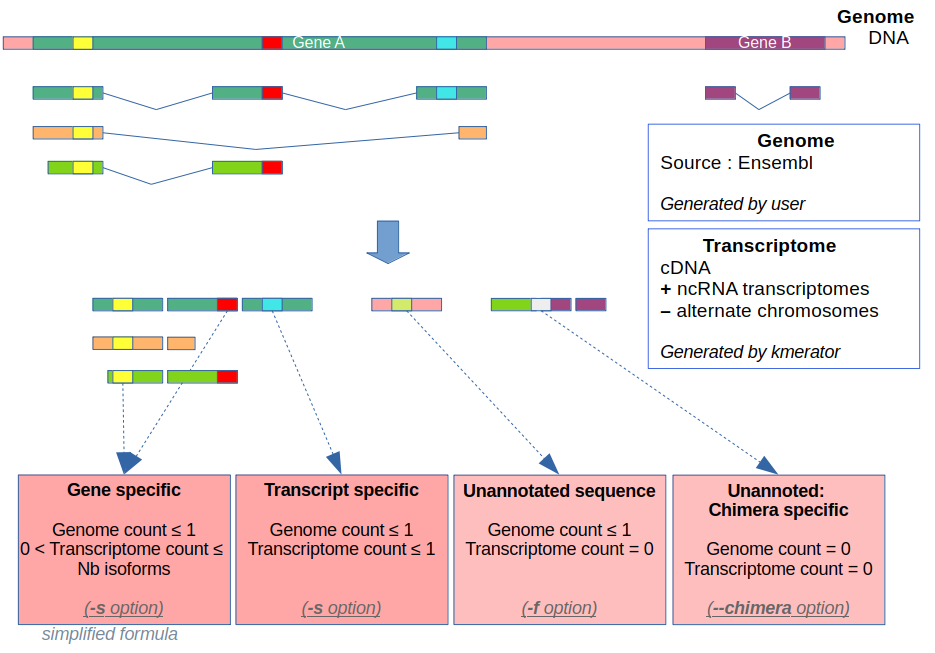
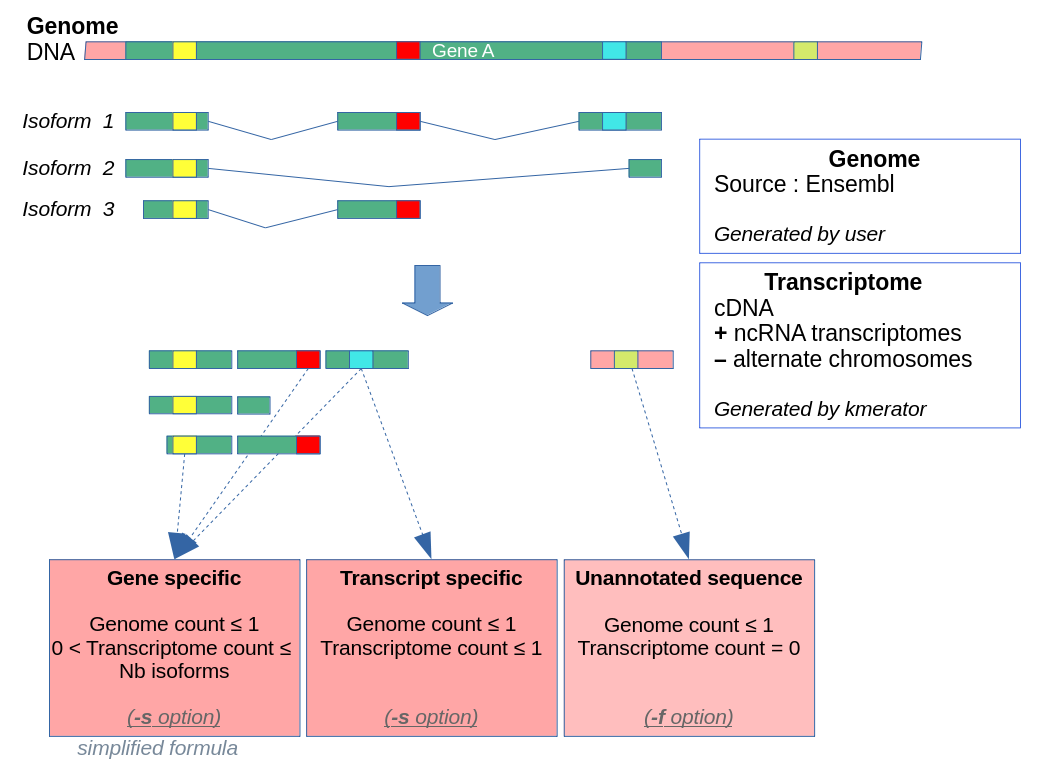
add --max-on-transcriptome/genome and remove --chimera

diff --git a/kmerator/kmerize.py b/kmerator/kmerize.py
@@ -157,7 +157,7 @@ class SpecificKmers:
             'contig_pos': 0,                   # position of retained contig
         }
         '''
-        level = 'gene' if item['type'] not in ['transcript', 'chimera'] else item['type']
+        level = 'gene' if item['type'] != 'transcript' else item['type']
         specific_kmers = []              # specific kmers list
         lost_kmers = []                  # lost kmers list
         specific_contigs = []            # specific contigs list
@@ -179,10 +179,10 @@ class SpecificKmers:
             ## When '--selection' option is set
             kmer_outfile = f"{given_up}-{ENST}-{level}-specific_kmers.fa"
             contig_outfile = f"{given_up}-{ENST}-{level}-specific_contigs.fa"
-        elif args['chimera']:
-            ## When '--chimera' option is set
-            kmer_outfile = f"{flat_name}-chimera-specific_kmers.fa"
-            contig_outfile = f"{flat_name}-chimera-specific_contigs.fa"
+        # ~ elif args['chimera']:
+            # ~ ## When '--chimera' option is set
+            # ~ kmer_outfile = f"{flat_name}-chimera-specific_kmers.fa"
+            # ~ contig_outfile = f"{flat_name}-chimera-specific_contigs.fa"
         elif args['fasta_file']:
             ## When '--fasta-file' option is set
             kmer_outfile = f"{flat_name}-transcript-specific_kmers.fa"
@@ -213,13 +213,6 @@ class SpecificKmers:
                     # knb, specific_kmers, given_up, transcript, kmer_pos, isoforms_with_mer_nb,
                     # isoforms_nb, mer, contig, kmer_pos_prev, kmer_pos, contig_pos
 
-                    '''
-                    TODO
-                    the algo to find specific kmers, because there are repeated 5 times, but not so easy
-                        - many arguments to pass to the method are numerous
-                        - string to pass are not already the same
-                        - WARNING of performances losses
-                    '''
                     ### all kmers found (abund_in_tr) must be in isoforms
                     if not args['stringent'] and abund_in_tr and abund_in_tr == isoforms_with_mer_nb:
                         ## contigs case
@@ -264,7 +257,7 @@ class SpecificKmers:
                 # ~ else:
                     # ~ lost_kmers.append(f">{given_up}:{ENST}.kmer{kmer_pos} ct:{c_nb} tr:{isoforms_with_mer_nb}/{isoforms_nb}\n{mer}")
 
-            ### Cases of transcripts 1) unannotated, 2) annotated.
+            ### Cases of transcripts 1) annotated, 2) unannotated.
             elif level == 'transcript':
                 ### Case of annotated transcripts
                 if args['selection'] and abund_in_tr == 1 and abund_in_ge <= 1:
@@ -287,7 +280,7 @@ class SpecificKmers:
                     specific_kmers.append(f">{given_up}:{ENST}.kmer{kmer_pos} ct:{c_nb}\n{mer}")
 
                 ### Case of unannotated transcripts
-                elif args['fasta_file'] and abund_in_tr <= self.args['max_on_transcriptome'] and abund_in_ge <= 1:     # max_on_transcriptome = 0 by default
+                elif args['fasta_file'] and abund_in_tr <= self.args['max_on_transcriptome'] and abund_in_ge <= self.args['max_on_genome']:     # max_on_transcriptome = 0 by default
                     ### contigs case
                     if knb == 0:                                    # first kmer in contig
                         contig = mer
@@ -306,27 +299,27 @@ class SpecificKmers:
                     knb += 1
                     specific_kmers.append(f">{f_id}.kmer{kmer_pos} ct:{c_nb}\n{mer}")
 
-            ### Case of chimera
-            elif level == 'chimera':
-                if abund_in_tr == abund_in_ge == 0:
-                    ### contig case
-                    if knb == 0:
-                        contig = mer
-                        kmer_pos_prev = kmer_pos
-                        contig_pos = kmer_pos
-                    elif knb>0 and kmer_pos == kmer_pos_prev+1:
-                        contig += mer[-1]
-                        kmer_pos_prev = kmer_pos
-                    else:
-                        specific_contigs.append(f">{f_id}.contig_{c_nb} (at position {contig_pos})\n{contig}")
-                        c_nb += 1
-                        contig = mer
-                        kmer_pos_prev = kmer_pos
-                        contig_pos = kmer_pos
-                    ### kmers case
-                    knb += 1
-                    specific_kmers.append(f">{f_id}.kmer{kmer_pos} ct:{c_nb}\n{mer}")
-            ### not a gene, transcript, or chimera
+            # ~ ### Case of chimera
+            # ~ elif level == 'chimera':
+                # ~ if abund_in_tr == abund_in_ge == 0:
+                    # ~ ### contig case
+                    # ~ if knb == 0:
+                        # ~ contig = mer
+                        # ~ kmer_pos_prev = kmer_pos
+                        # ~ contig_pos = kmer_pos
+                    # ~ elif knb>0 and kmer_pos == kmer_pos_prev+1:
+                        # ~ contig += mer[-1]
+                        # ~ kmer_pos_prev = kmer_pos
+                    # ~ else:
+                        # ~ specific_contigs.append(f">{f_id}.contig_{c_nb} (at position {contig_pos})\n{contig}")
+                        # ~ c_nb += 1
+                        # ~ contig = mer
+                        # ~ kmer_pos_prev = kmer_pos
+                        # ~ contig_pos = kmer_pos
+                    # ~ ### kmers case
+                    # ~ knb += 1
+                    # ~ specific_kmers.append(f">{f_id}.kmer{kmer_pos} ct:{c_nb}\n{mer}")
+            ### not a gene or transcript
             else:
                 raise KeyError(f"{RED}Error: level {level!r} unknown.{ENDCOL}")
 

diff --git a/kmerator/options.py b/kmerator/options.py
@@ -93,23 +93,35 @@ def usage(conf):
                         help="release of transcriptome (default: last).",
                         default="last",
                         )
-    parser.add_argument('--chimera',
-                        action='store_true',
-                        help="Only with '--fasta-file' option.",
-                        )
+    # ~ parser.add_argument('--chimera',
+                        # ~ action='store_true',
+                        # ~ help="Only with '-f/--fasta-file' option.",
+                        # ~ )
     parser.add_argument('--stringent',
                         action='store_true',
                         help=(
-                            "Only for genes with '--selection' option: use this option if you want "
+                            "Only for genes with '-s/--selection' option: use this option if you want "
                             "to select gene-specific k-mers present in ALL transcripts for your "
                             "gene. If false, a k-mer is considered as gene-specific if present "
                             "in at least one isoform of your gene of interest."
                             ),
                         )
-    parser.add_argument('--max-on-transcriptome',
-                        type=float,
-                        help=argparse.SUPPRESS,
+    parser.add_argument('-T', '--max-on-transcriptome',
+                        type=int,
+                        help=("Only for genes with '-f/--fasta-file' option: with unanotated data, "
+                            "specific kmers are not supposed to be found in the transcriptome, you "
+                            "can change this behavior for special cases (default: 0)"
+                            ),
                         default=0,
+                        )
+    parser.add_argument('-G', '--max-on-genome',
+                        type=int,
+                        help=(
+                            "Only for genes with '-f/--fasta-file' option: typically, specific "
+                            "kmers are not supposed to be found more than once in the genome, you "
+                            "can change this behavior for special cases, like chimera (default: 1)"
+                            ),
+                        default=1 if any(set(['-f', '--fasta-file']) & set(sys.argv)) else None,
                         )
     parser.add_argument('-o', '--output',
                         help="output directory, created if not exists (default: 'output')",
@@ -269,8 +281,14 @@ def checkup_args(args):
                  f"{YELLOW}jellyfish count /genomes/GRCh38.fa -m 31 -s 100M -t 8 --canonical "
                  "-o GRCh38.jf")
     ### --chimera level works only with --fasta-file option
-    if args.chimera and not args.fasta_file:
-        sys.exit(f"{ERROR}Error: '--chimera' needs '-f/--fasta-file' option.{ENDCOL}")
+    # ~ if args.chimera and not args.fasta_file:
+        # ~ sys.exit(f"{ERROR}Error: '--chimera' needs '-f/--fasta-file' option.{ENDCOL}")
+    ### --max-on-genome level works only with --fasta-file option
+    if args.max_on_genome and not args.fasta_file:
+        sys.exit(f"{ERROR}Error: '--max-on-genome' needs '-f/--fasta-file' option.{ENDCOL}")
+    ### --max-on-transcriptome level works only with --fasta-file option
+    if args.max_on_transcriptome and not args.fasta_file:
+        sys.exit(f"{ERROR}Error: '--max-on-transcriptome' needs '-f/--fasta-file' option.{ENDCOL}")
     ### temporary directory
     if not args.keep:
         if not args.tmpdir:

diff --git a/kmerator/info.py b/kmerator/info.py
@@ -5,7 +5,7 @@ Genral informations on to the program.
 """
 
 APPNAME = "kmerator"
-VERSION = "1.0.3"
+VERSION = "2.0.0"
 VERSION_DATASET = 1
 SHORTDESC = "Find specific gene or transcript kmers. And more."
 LICENCE = "GPL3"
@@ -37,7 +37,7 @@ EXAMPLES:
 Before all, remember that kmerator needs a jellyfish index of the genome.
 
 Good idea before requests kmerator:
- kmerator -e             # Edit config file to set default options
+ kmerator -e                     # Edit config file to set default options
 
 Some requests:
  kmerator -s npm1 braf           # get specific kmers from NPM1 and BRAF genes

diff --git a/kmerator/kmerator.py b/kmerator/kmerator.py
@@ -154,7 +154,7 @@ def find_items(args, report, geneinfo_dict=None):
 
     ### With '--fasta-file' option
     if args.fasta_file:
-        type = 'chimera' if args.chimera else 'transcript'
+        type = 'transcript'
         with open(args.fasta_file) as fh:
             seq = ""
             f_id = fh.readline()[1:].split(' ')[0].rstrip()

diff --git a/README.md b/README.md
@@ -115,76 +115,76 @@ kmerator --info genes.txt             # genes/transcripts are in a file
 ## All arguments
 
 ```
-optional arguments:
+options:
   -h, --help            show this help message and exit
-  -s SELECTION [SELECTION ...], --selection SELECTION [SELECTION ...]
-                        list of gene IDs (ENSG, gene Symbol or alias) or
-                        transcript IDs (ENST) from which you want to extract
-                        specific kmers from. For genes, kmerator search
-                        specific kmers along the gene. For transcripts, it
-                        search specific kmers to the transcript. You can also
-                        give a file with yours genes/transcripts separated by
-                        space, tab or newline. If you want to use your own
-                        unannotated sequences, you must give your fasta file
-                        with --fasta-file option.
+  -s SELECTION [SELECTION ...], --selection SELECTION [SELECTION ...] 
+                        list of gene IDs (ENSG, gene Symbol or alias) or transcript 
+                        IDs (ENST) from which you want to extract specific kmers from. 
+                        For genes, kmerator search specific kmers along the gene. 
+                        For transcripts, it search specific kmers to the transcript. 
+                        You can also give a file with yours genes/transcripts 
+                        separated by space, tab or newline. If you want to use 
+                        your own unannotated sequences, you must give your fasta 
+                        file with --fasta-file option.
   -f FASTA_FILE, --fasta-file FASTA_FILE
-                        Use this option when yours sequences are unannonated
-                        or provided by a annotation file external from
-                        Ensembl. Otherwise, use --selection option.
+                        Use this option when yours sequences are unannonated or 
+                        provided by a annotation file external from Ensembl. 
+                        Otherwise, use --selection option.
   -d DATADIR, --datadir DATADIR
-                        Storage directory for kmerator datasets.We recommend
-                        to set this parameter by editing the configuration
-                        file (kmerator --edit)
+                        Storage directory for kmerator datasets.We recommend to 
+                        set this parameter by editing the configuration file 
+                        (kmerator --edit)
   -g GENOME, --genome GENOME
-                        Genome jellyfish index (.jf) to use for k-mers
-                        requests.
+                        Genome jellyfish index (.jf) to use for k-mers requests.
   -S SPECIE, --specie SPECIE
-                        indicate a specie referenced in Ensembl, to help,
-                        follow the link
-                        https://rest.ensembl.org/documentation/info/species.
-                        You can use the 'name', the 'display_name' or any
-                        'alias'. For example human or homo_sapiens are valid
-                        (default: human).
-  -k KMER_LENGTH, --kmer-length KMER_LENGTH
+                        indicate a specie referenced in Ensembl, to help, follow
+                        the link https://rest.ensembl.org/documentation/info/species.
+                        You can use the 'name', the 'display_name' or any 'alias'.
+                        For example human or homo_sapiens are valid
+                        (default:human).
+  -k KMER_LENGTH, --kmer-length KMER_LENGTH               
                         k-mer length that you want to use (default 31).
-  -r RELEASE, --release RELEASE
+  -r RELEASE, --release RELEASE         
                         release of transcriptome (default: last).
-  --chimera             Only with '--fasta-file' option.
-  --stringent           Only for genes with '--selection' option: use this
-                        option if you want to select gene-specific k-mers
-                        present in ALL transcripts for your gene. If false, a
-                        k-mer is considered as gene-specific if present in at
-                        least one isoform of your gene of interest.
-  -o OUTPUT, --output OUTPUT
-                        output directory, created if not exists (default:
-                        'output')
+  --stringent           Only for genes with '-s/--selection' option: use this
+                        option if you want to select gene-specific k-mers present
+                        in ALL transcripts for your gene. If false, a k-mer is 
+                        considered as gene-specific if present in at least one
+                        isoform of your gene of interest.
+  -T MAX_ON_TRANSCRIPTOME, --max-on-transcriptome MAX_ON_TRANSCRIPTOME
+                        Only for genes with '-f/--fasta-file' option: with
+                        unanotated data, specific kmers are not supposed to be
+                        found in the transcriptome, you can change this behavior
+                        for special cases (default: 0)
+  -G MAX_ON_GENOME, --max-on-genome MAX_ON_GENOME        
+                        Only for genes with '-f/--fasta-file' option: typically, 
+                        specific kmers are not supposed to be found more than 
+                        once in the genome, you can change
+                        this behavior for special cases, like chimera (default: 1)
+  -o OUTPUT, --output OUTPUT 
+                        output directory, created if not exists (default: 'output')
   -t THREAD, --thread THREAD
-                        run n process simultaneously (default: 1)
-  --tmpdir TMPDIR       directory to temporary file (default:
-                        /tmp/kmerator_<random>)
+                        run n process simultaneously (default: 1) 
+  --tmpdir TMPDIR       directory to temporary file (default: /tmp/kmerator_<random>) 
   -D, --debug           Show more details while Kmerator is running.
-  --keep                keep intermediate files (sequences, indexes, separate
+  --keep                keep intermediate files (sequences, indexes, separate 
                         kmers and contigs files).
-  -y, --yes             assumes 'yes' as the prompt answer, run non-
-                        interactively.
-  -e, --edit-config     Edit config file
-  -l, --list-dataset, --list-datasets
+  -y, --yes             assumes 'yes' as the prompt answer, run non-interactively.
+  -e, --edit-config     Edit config file 
+  -l, --list-dataset, --list-datasets 
                         list the local datasets (based on the datadir option).
-  --rm-dataset          remove a dataset, according with --specie and
+  --rm-dataset          remove a dataset, according with --specie and 
                         --release options
-  --mk-dataset          make a dataset, according with --specie and --release
-                        options
-  --last-avail, --last-available
+  --mk-dataset          make a dataset, according with --specie and --release options
+  --last-avail, --last-available    
                         last release available on Ensembl
-  -u, --update-dataset  builds a new dataset if a new version is found on
-                        Ensembl
-  --info gene [gene ...]
-                        get some information about gene. Multiple entries are
+  -u, --update-dataset  builds a new dataset if a new version is found on Ensembl
+  --info gene [gene ...] 
+                        get some information about gene. Multiple entries are 
                         allowed or a text file with list of genes
-  -a, --all             only with '--info' option. Give more info, like
-                        transcript sequences
+  -a, --all             only with '--info' option. Give more info, like 
+                        transcript sequences                       
   -v, --version         show program's version number and exit
-
 ```
 
 ## Output
@@ -197,7 +197,7 @@ kmerator generate 3 files:
 
 extract of kmers.fa:
 ```
->RUNX1:ENST00000675419.kmer3394 ct:3 ex:3/17
+>RUNX1:ENST00000675419.kmer3394 ct:3 tr:3/17
 TGAAGAGTATTTGAAAGCAGGACTTCAGAAC
 ```
 * `kmer3394`: the first base is at this position in the canonical transcript or the given sequence (1 based)
